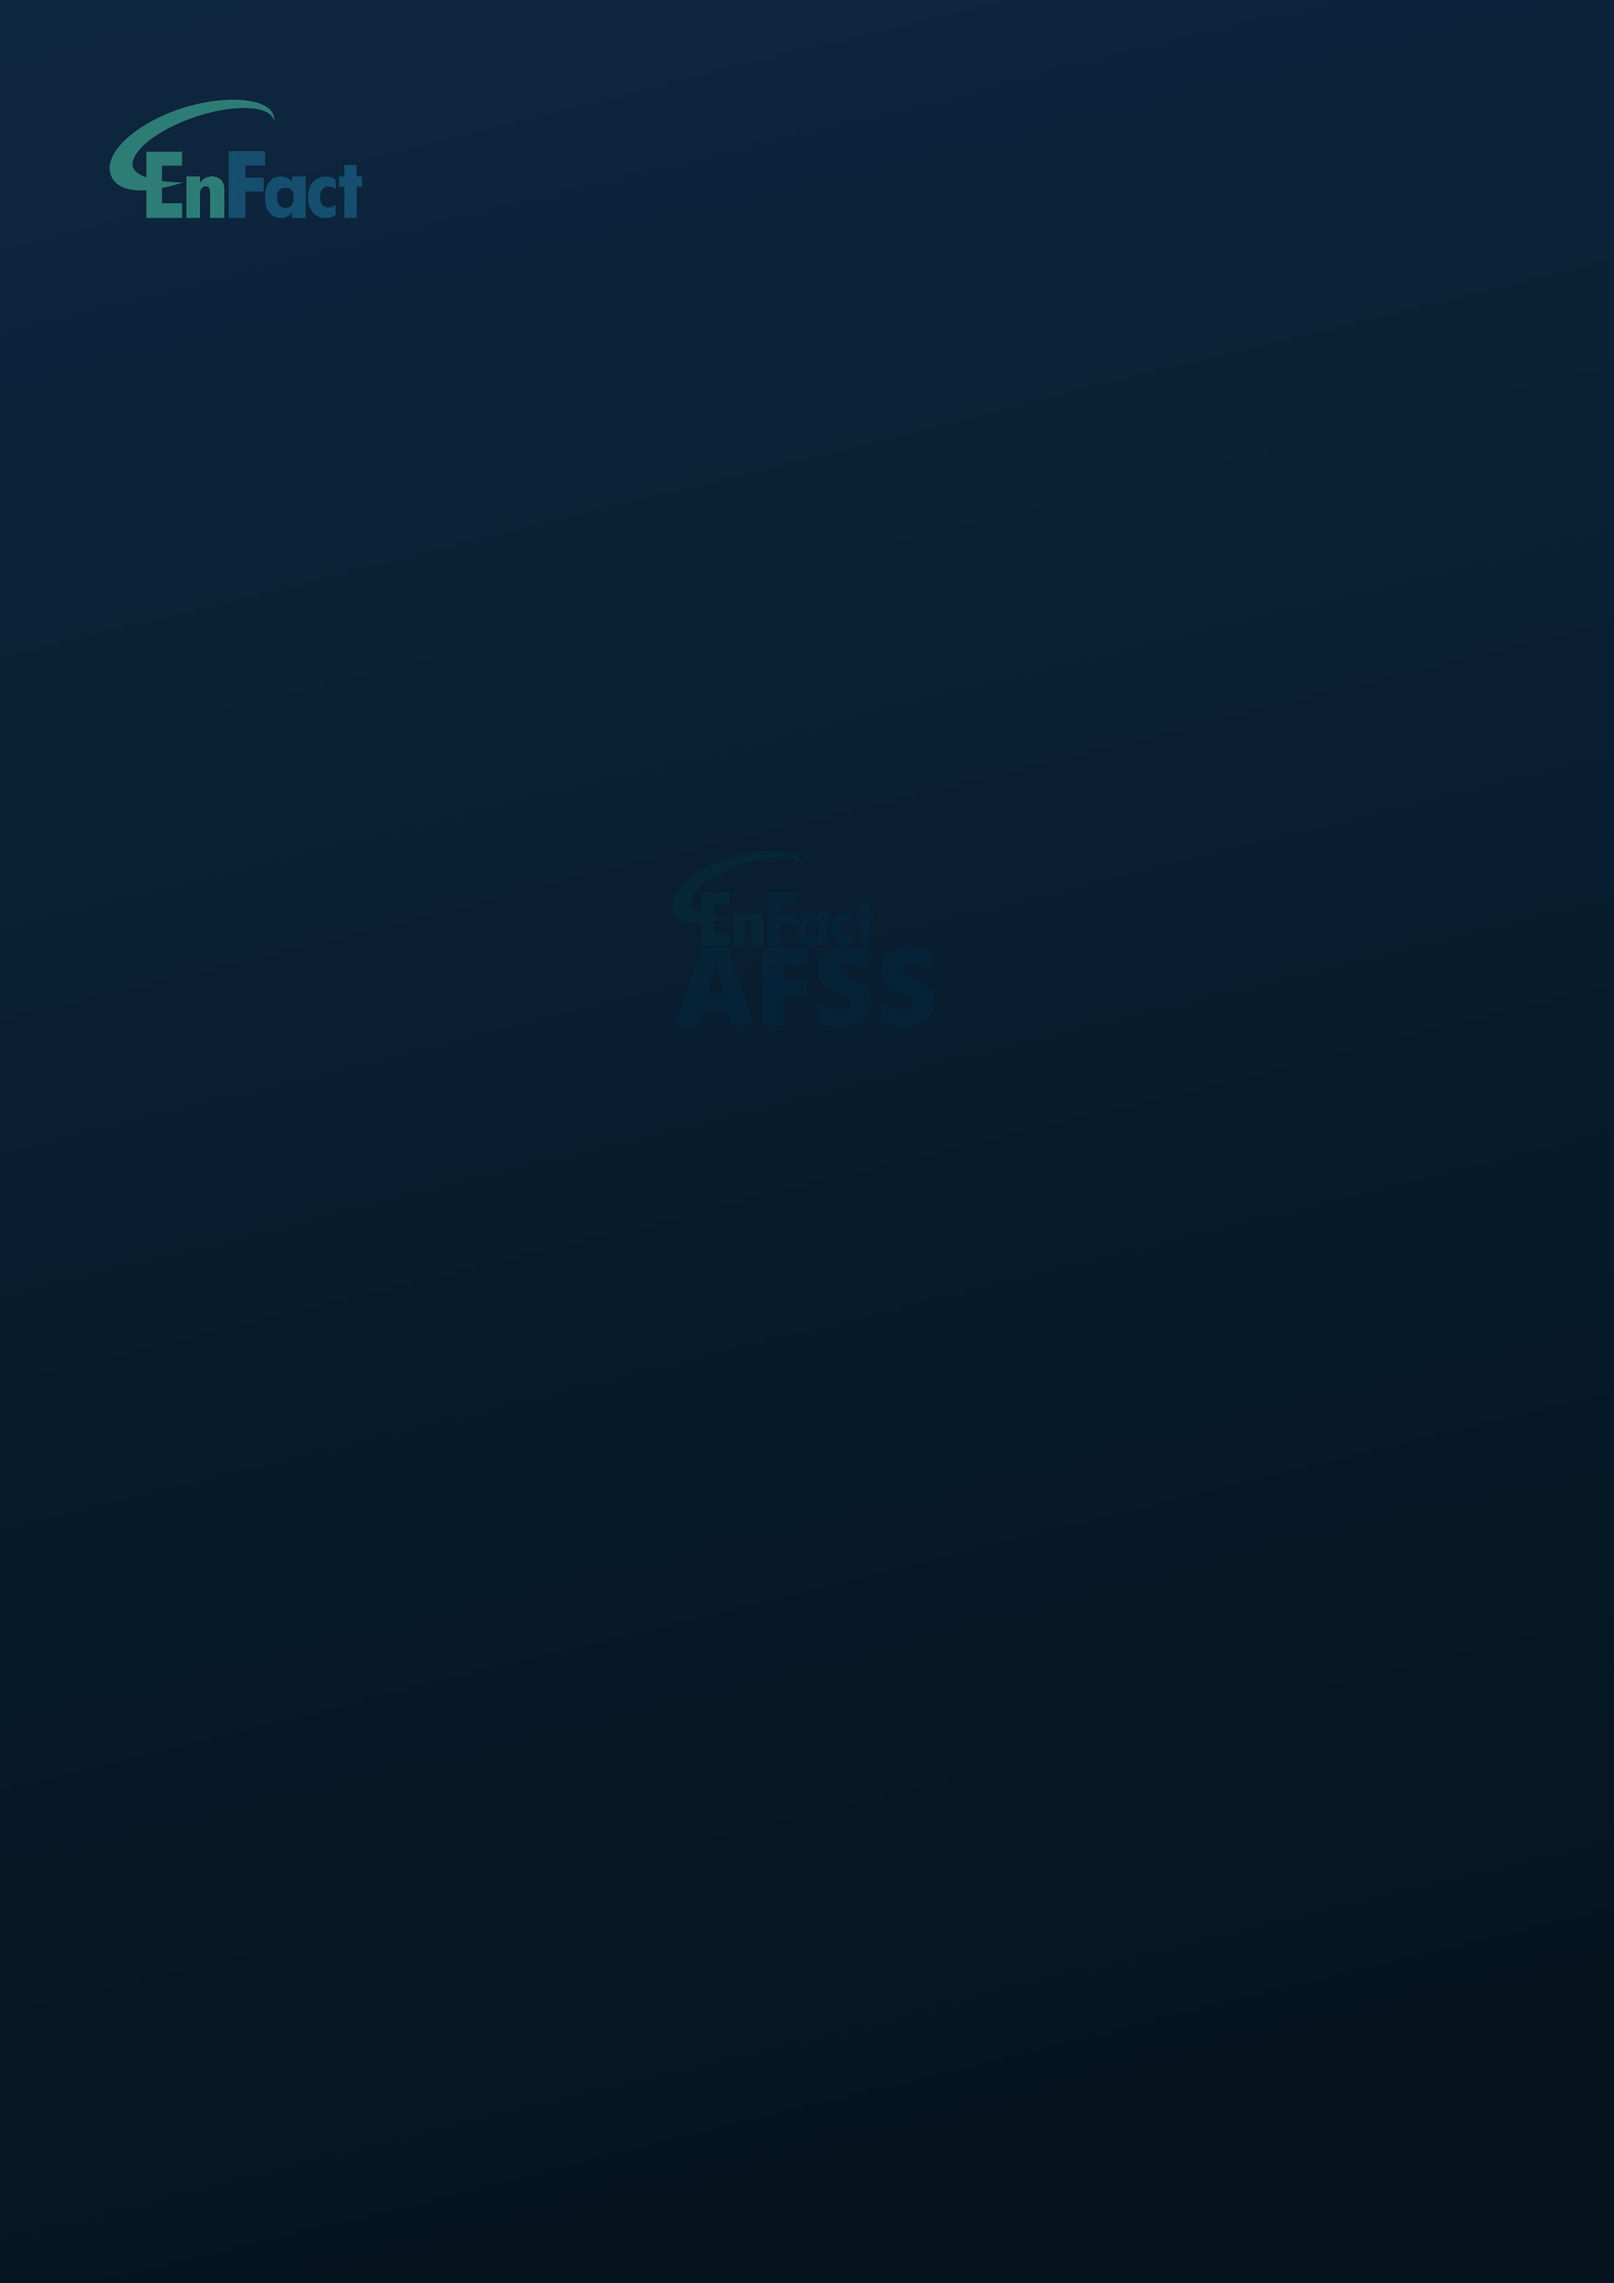
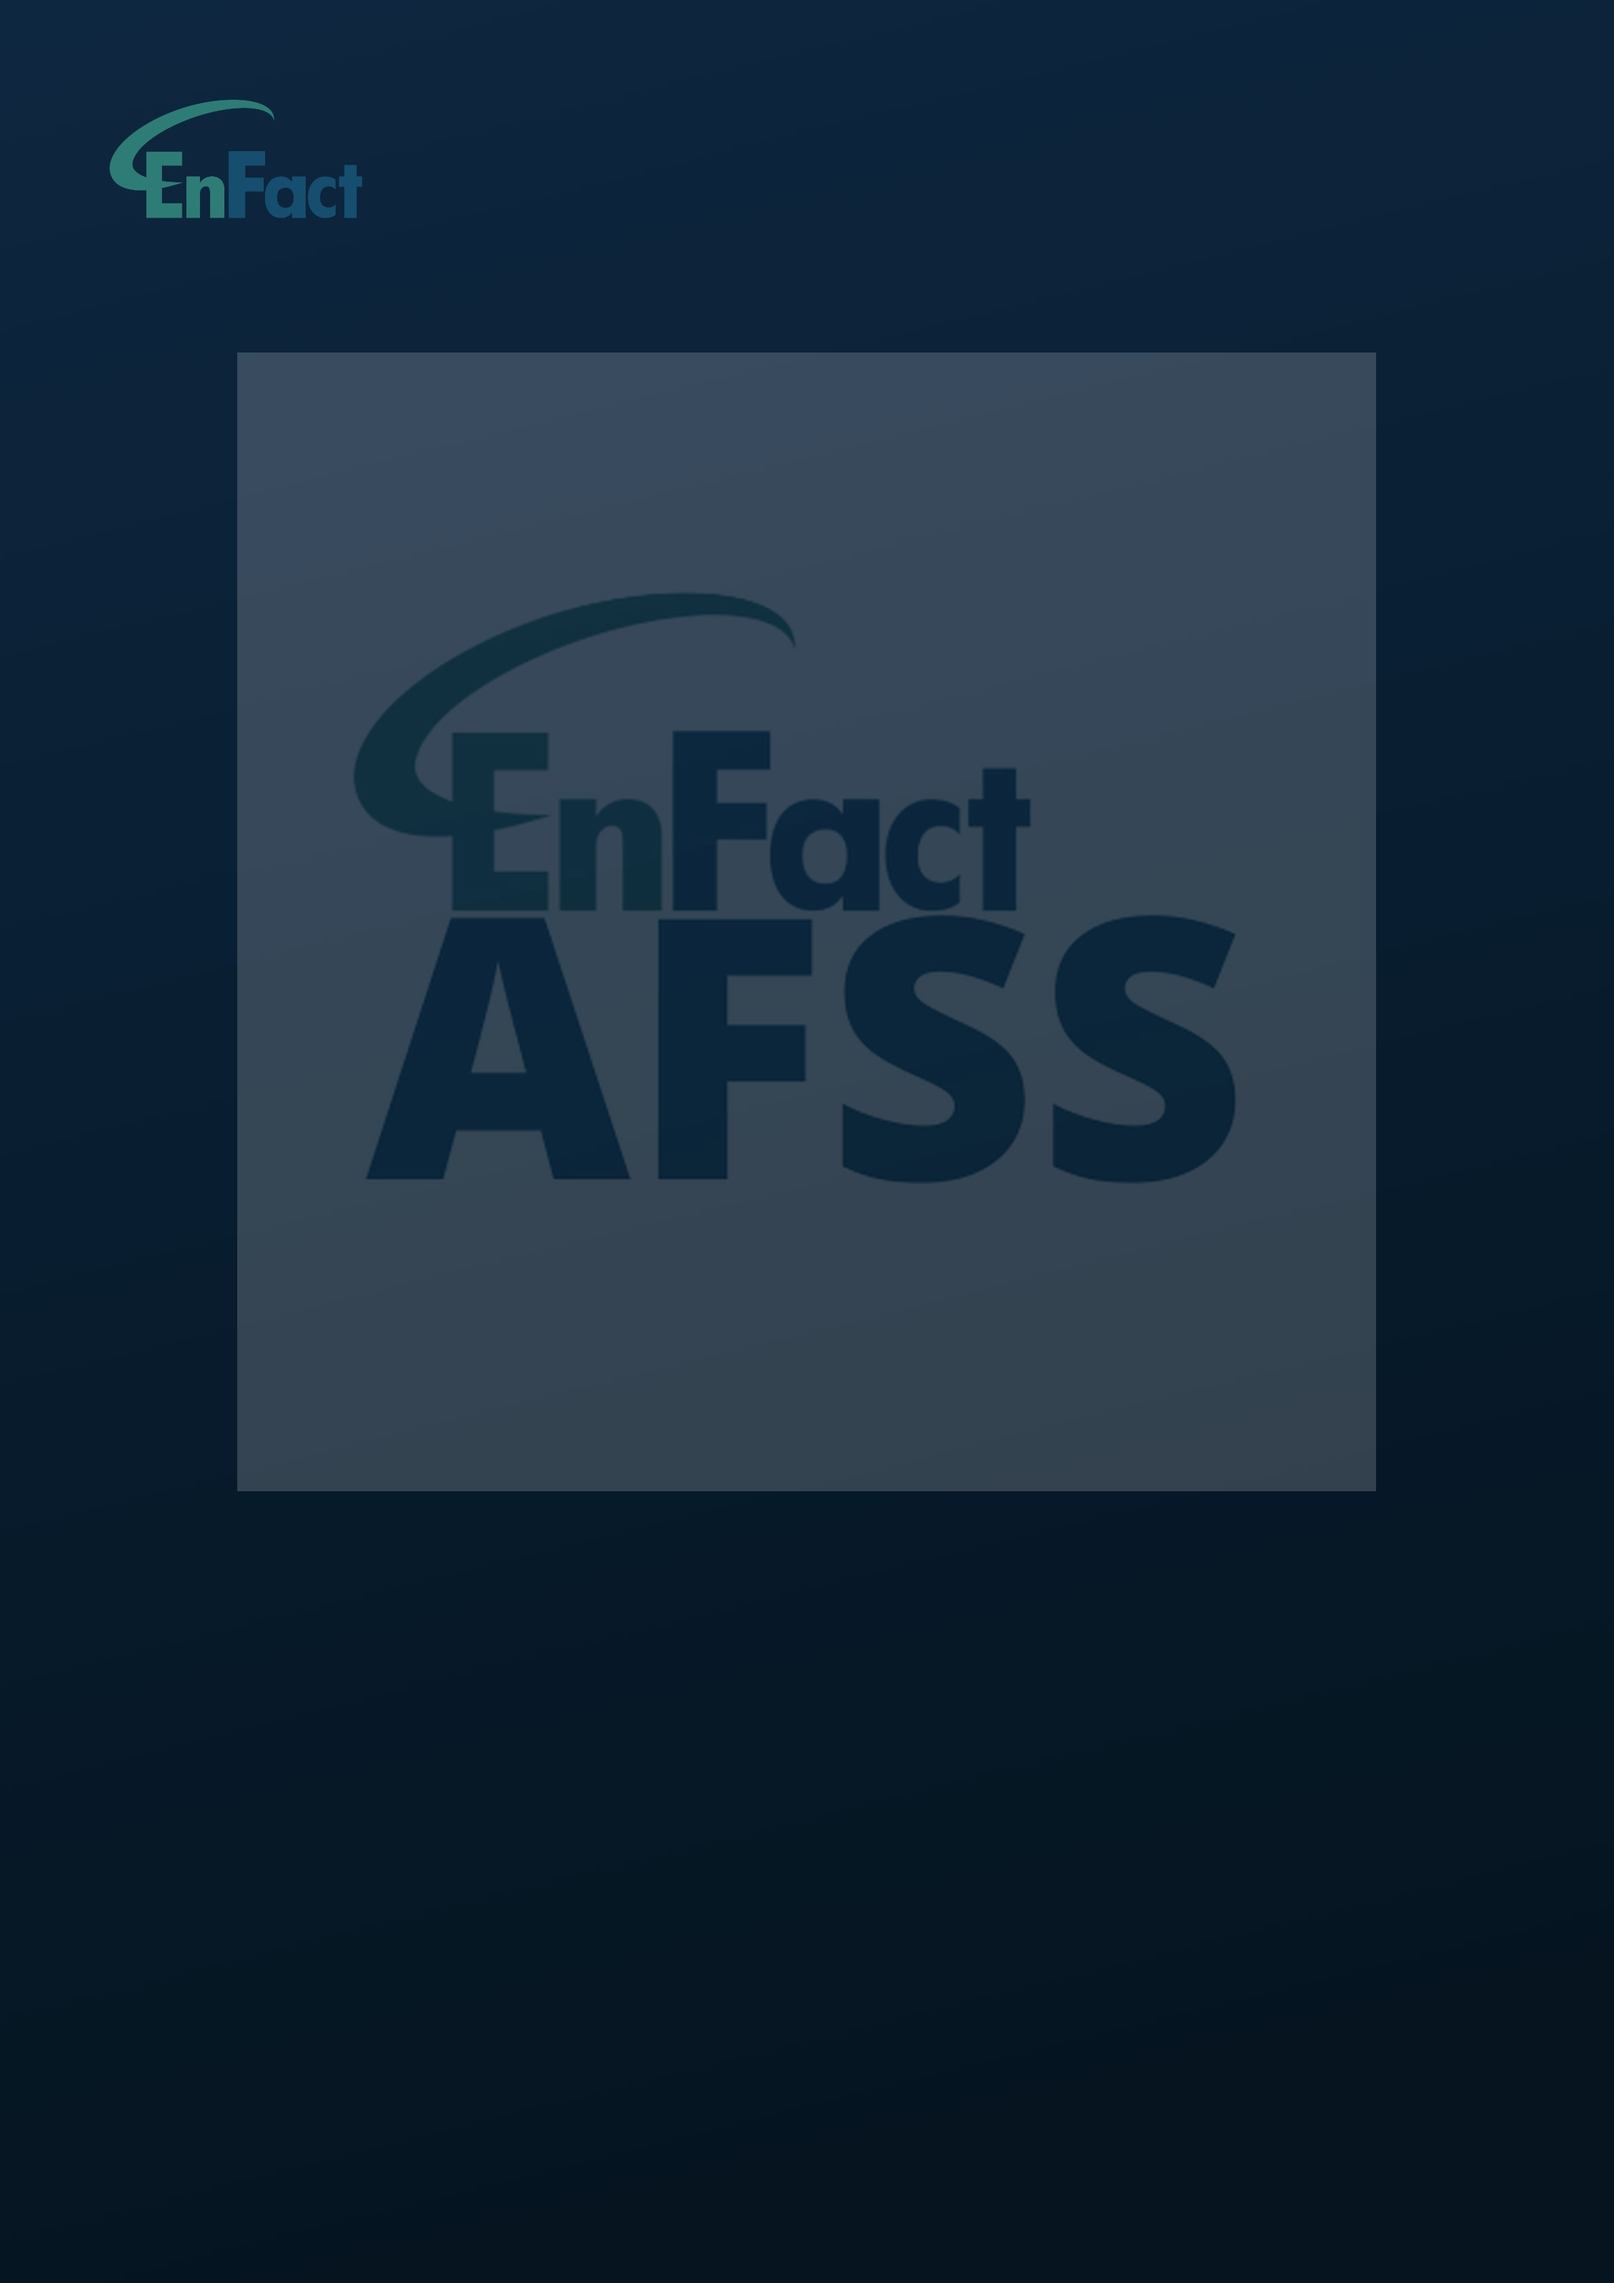
hopefully pdf fix

Changed region(s): [[0.1243, 0.1559, 0.8702, 0.6547]]

diff --git a/src/pages/Export.tsx b/src/pages/Export.tsx
@@ -9,9 +9,8 @@ import { getSite, listFindings, listPhotos } from "../db/db";
 import { IconChevronLeft, IconShare } from "../components/Icons";
 import RoundIconButton from "../components/RoundIconButton";
 import { getInitials, getInspectorName } from "../lib/profile";
-import coverBg from "../assets/cover-bg.jpg";
-import coverWatermarkAfss from "../assets/cover-watermark-afss.png";
-import coverWatermarkProjects from "../assets/cover-watermark-projects.png";
+import coverBgAfss from "../assets/cover-bg-afss.jpg";
+import coverBgProjects from "../assets/cover-bg-projects.jpg";
 
 // Blob -> base64 (without the data: URL prefix), which is what
 // Filesystem.writeFile wants for a binary file.
@@ -231,31 +230,24 @@ export default function ExportPreview() {
 
   if (!siteId) return null;
 
-  // Full-bleed cover page. The gradient wash and EnFact masthead wordmark
-  // never vary per report, so they're pre-rendered once into a single flat
-  // JPEG (src/assets/cover-bg.jpg) rather than assembled at PDF-build time.
-  // That's a deliberate simplification after the original per-report
-  // compositing (multiple doc.addImage() calls plus jsPDF's GState opacity
-  // API) proved unreliable in the field.
-  //
-  // The classification watermark (AFSS or Projects) is NOT part of that
-  // baked image, even though it doesn't change per report kind: per the
-  // approved cover design it has to vertically center itself in the gap
-  // between the masthead and the details block, and that gap's height
-  // varies with the actual title/address/badge content, so it can't be
-  // part of a single fixed-layout background. It's still drawn with a
-  // single plain doc.addImage() call — a PNG whose 18% opacity is baked
-  // into its own alpha channel (src/assets/cover-watermark-*.png) rather
-  // than applied at runtime — so this keeps the "no GState" simplification
-  // while restoring the mockup's dynamic placement.
+  // Full-bleed cover page. The gradient wash, EnFact masthead wordmark AND
+  // the classification watermark (AFSS or Projects) are all baked ahead of
+  // time into a single flat JPEG per site kind (src/assets/cover-bg-*.jpg)
+  // — nothing about the cover is assembled from multiple images at
+  // PDF-build time. The watermark's position/size is fixed (not resized to
+  // the actual title/address/badge content the way the approved mockup
+  // shows), which is a deliberate trade against pixel-perfect fidelity: a
+  // single baked-per-kind image, with only plain text drawn on top of it,
+  // is the simplest and most robust thing this cover can be, after the
+  // original per-report compositing (multiple doc.addImage() calls plus
+  // jsPDF's GState opacity API) proved unreliable in the field.
   async function drawCoverPage(doc: jsPDF, findingsCount: number) {
     const pageW = doc.internal.pageSize.getWidth();
     const pageH = doc.internal.pageSize.getHeight();
     const margin = 40;
     const contentW = pageW - margin * 2;
-    const mastheadH = 118;
 
-    const bg = await loadAssetAsDataUrl(coverBg);
+    const bg = await loadAssetAsDataUrl(site?.kind === "project" ? coverBgProjects : coverBgAfss);
     doc.addImage(bg.dataUrl, "JPEG", 0, 0, pageW, pageH);
 
     // report title + address, built bottom-up so we know exactly how tall
@@ -276,32 +268,6 @@ export default function ExportPreview() {
     const bottomPad = 56;
     const detailsH =
       accentH + 16 + titleH + (addressH ? 4 + addressH : 0) + 16 + badgePillH + bottomPad;
-
-    // classification watermark, centered in the blank space between the
-    // masthead above and the details block below (mirrors the mockup's
-    // "flex-grow: 1; align-items: center; justify-content: center" gap)
-    const watermarkTop = mastheadH;
-    const watermarkAreaH = Math.max(0, pageH - detailsH - mastheadH);
-    if (watermarkAreaH > 0) {
-      const wm = await loadAssetAsDataUrl(site?.kind === "project" ? coverWatermarkProjects : coverWatermarkAfss);
-      const maxWmW = 420;
-      let wmW = Math.min(maxWmW, wm.naturalWidth);
-      let wmH = (wm.naturalHeight / wm.naturalWidth) * wmW;
-      if (wmH > watermarkAreaH) {
-        wmH = watermarkAreaH;
-        wmW = (wm.naturalWidth / wm.naturalHeight) * wmH;
-      }
-      if (wmW > 0 && wmH > 0) {
-        doc.addImage(
-          wm.dataUrl,
-          "PNG",
-          (pageW - wmW) / 2,
-          watermarkTop + (watermarkAreaH - wmH) / 2,
-          wmW,
-          wmH,
-        );
-      }
-    }
 
     // details block, anchored to the bottom of the page
     let dy = pageH - detailsH;
